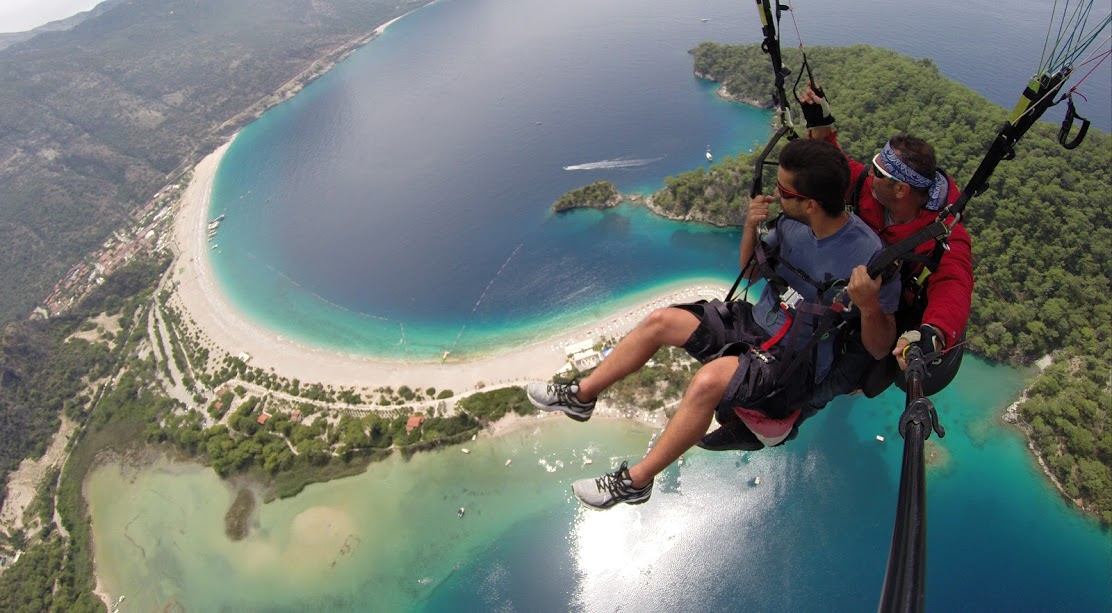
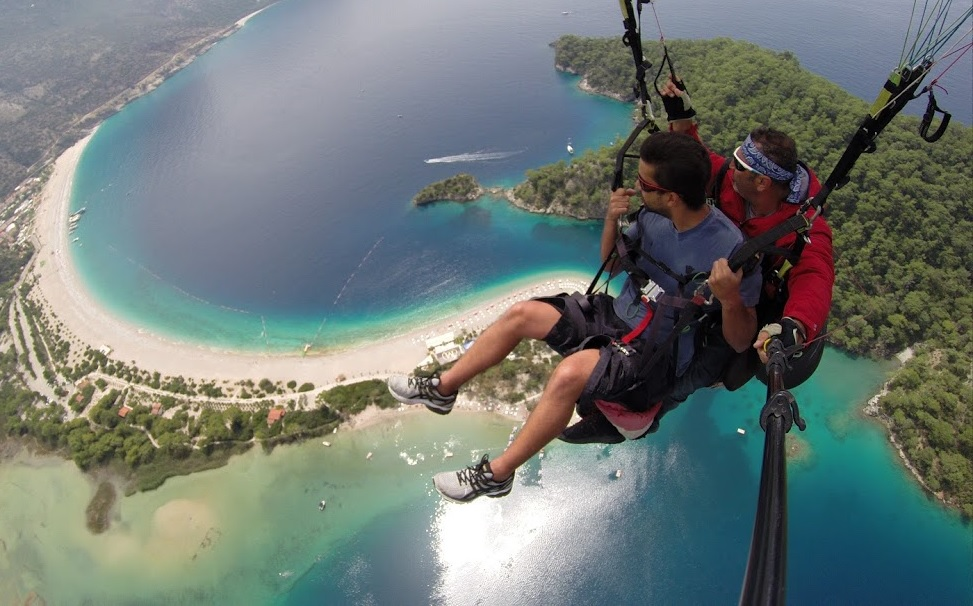
corta foto e centraliza
agora vai

diff --git a/index.html b/index.html
@@ -36,7 +36,7 @@
 				<!-- Thumbnail -->
 					<section id="thumbnails">
 						<article>
-							<a class="thumbnail" href="images/fulls/01.jpg" data-position="center-right" ><img src="images/thumbs/01_tn.jpg" alt="" /></a>
+							<a class="thumbnail" href="images/fulls/01.jpg" data-position="top center" ><img src="images/thumbs/01_tn.jpg" alt="" /></a>
 							<h2>I am a challenge seeker</h2>
 							<p>Paragliding flight, Oludeniz - Turkey</p>
 						</article>
@@ -66,7 +66,7 @@
 							<p>Very Cold Jungfraujoch, Top of Europe - Switzerland</p>
 						</article>
 						<article>
-							<a class="thumbnail" href="images/fulls/07.jpg" data-position="left-side"><img src="images/thumbs/07_tn.jpg" alt="" /></a>
+							<a class="thumbnail" href="images/fulls/07.jpg" data-position="top center"><img src="images/thumbs/07_tn.jpg" alt="" /></a>
 							<h2>Healthy Ambition</h2>
 							<p>Ferrari Test Drive, Maranello - Italy</p>
 						</article>
